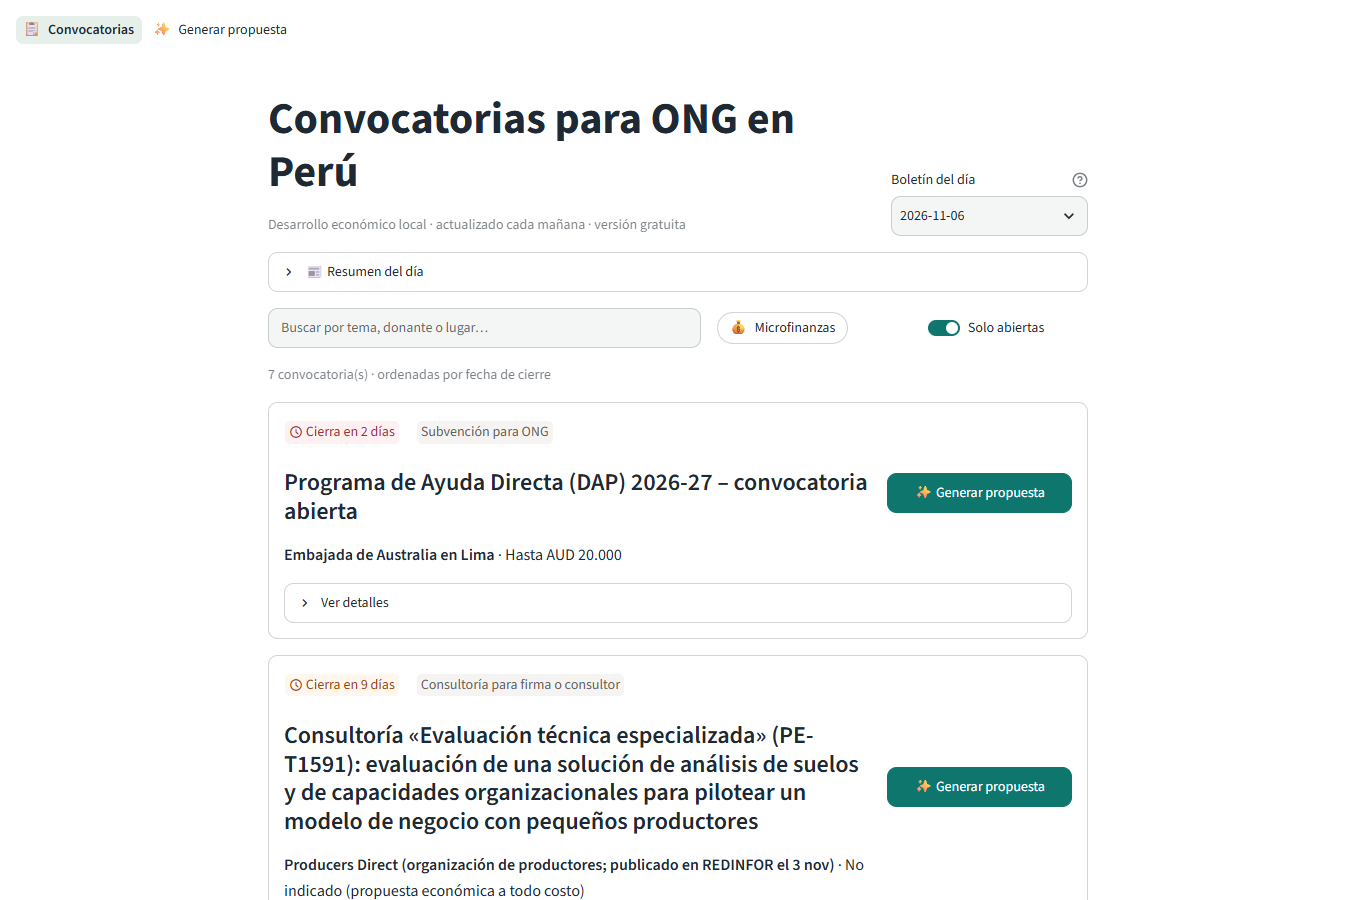
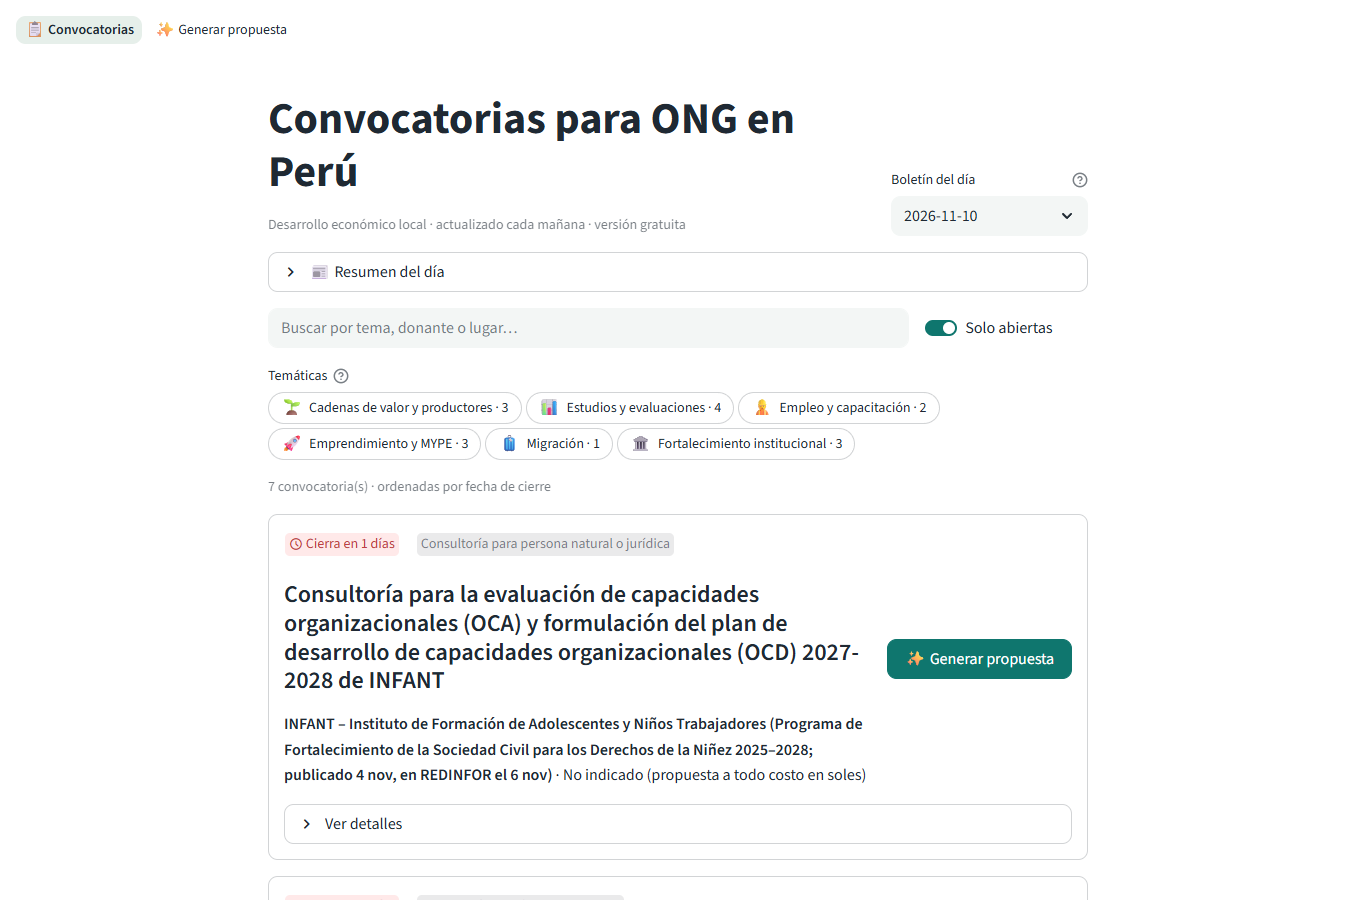
README al día: capturas nuevas con filtros por temática y 39 pruebas; "Cierra mañana"
Claude-Session: https://claude.ai/code/session_01PhZNfeYDuwU8Aap2rADoeQ

diff --git a/app/paginas/convocatorias.py b/app/paginas/convocatorias.py
@@ -41,6 +41,8 @@ def plazo(dias):
         return "Cerrada", "gray"
     if dias == 0:
         return "Cierra hoy", "red"
+    if dias == 1:
+        return "Cierra mañana", "red"
     color = "red" if dias <= 7 else "orange" if dias <= 21 else "green"
     return f"Cierra en {dias} días", color
 

diff --git a/README.md b/README.md
@@ -21,7 +21,7 @@
 | Frente | Cómo lo cubro |
 |---|---|
 | Producto | Claude Code me ayuda a diseñar la guía de entrevistas, transcribir y sintetizar las conversaciones con usuarios y convertir sus pedidos en tareas. |
-| Ingeniería | Claude Code escribe y prueba el código (30 pruebas automáticas); dentro de la app, Gemini redacta y Whisper transcribe. |
+| Ingeniería | Claude Code escribe y prueba el código (39 pruebas automáticas); dentro de la app, Gemini redacta y Whisper transcribe. |
 | Diseño | Claude Code itera la interfaz y la revisa con capturas de un navegador automático antes de cada cambio. |
 | Ventas | Una rutina de Claude en la nube arma cada mañana el boletín gratuito de convocatorias, que es el canal de entrada al plan de pago. |
 
@@ -96,13 +96,13 @@ cp .env.example .env   # y completar GEMINI_API_KEY
 streamlit run app/streamlit_app.py
 ```
 
-Pruebas automáticas, sin llamar a APIs: `python -m pytest` (30 pruebas).
+Pruebas automáticas, sin llamar a APIs: `python -m pytest` (39 pruebas).
 
 **Capturas del flujo principal** (tomadas de la versión publicada):
 
 | 1. Boletín de convocatorias | 2. Tu proyecto: el TdR ya resumido | 3. Revisa y descarga |
 |---|---|---|
-| ![Boletín diario de convocatorias con plazo en color y botón Generar propuesta](docs/img/captura_1_boletin.png) | ![Paso Tu proyecto con el resumen del TdR del DAP: monto, duración, contrapartida y cierre](docs/img/captura_2_tu_proyecto.png) | ![Propuesta generada con el aviso de qué corregir, los montos y las pestañas de revisión](docs/img/captura_3_revisa_y_descarga.png) |
+| ![Boletín diario de convocatorias con buscador, filtros por temática, plazo en color y botón Generar propuesta](docs/img/captura_1_boletin.png) | ![Paso Tu proyecto con el resumen del TdR leído solo, los datos públicos del INEI y los proyectos similares del BID y el BMZ](docs/img/captura_2_tu_proyecto.png) | ![Propuesta generada con el aviso de qué corregir, los montos y las pestañas de revisión](docs/img/captura_3_revisa_y_descarga.png) |
 
 **Flujo principal:**
 
@@ -206,7 +206,7 @@ Referencia de valor: hoy una propuesta toma hasta dos semanas de trabajo de un p
 Claude Code (Claude Opus) fue el co-founder técnico. **Luis** definió el problema, las decisiones de producto y de negocio, hizo las entrevistas y revisó cada entrega. **Claude Code**:
 
 - **Escribió el código del producto:** la app de Streamlit (`app/`), el motor de generación, las reglas, el verificador, la lectura de documentos con OCR y la exportación a Word y Excel (`ai/`).
-- **Escribió las 30 pruebas automáticas** (`tests/`) y las corrió después de cada cambio.
+- **Escribió las 39 pruebas automáticas** (`tests/`) y las corrió después de cada cambio.
 - **Construyó la skill de la ENAHO** (`.claude/skills/datos-enaho-propuesta/`): descarga, cálculo y validación contra el INEI.
 - **Armó la automatización del boletín:** el script `scripts/actualizar_feed.py` y la rutina en la nube que lo sincroniza cada mañana.
 - **Iteró el diseño:** revisó la interfaz con capturas de un navegador automático y corrigió lo que se veía mal (cifras cortadas, anchos, textos confusos).
